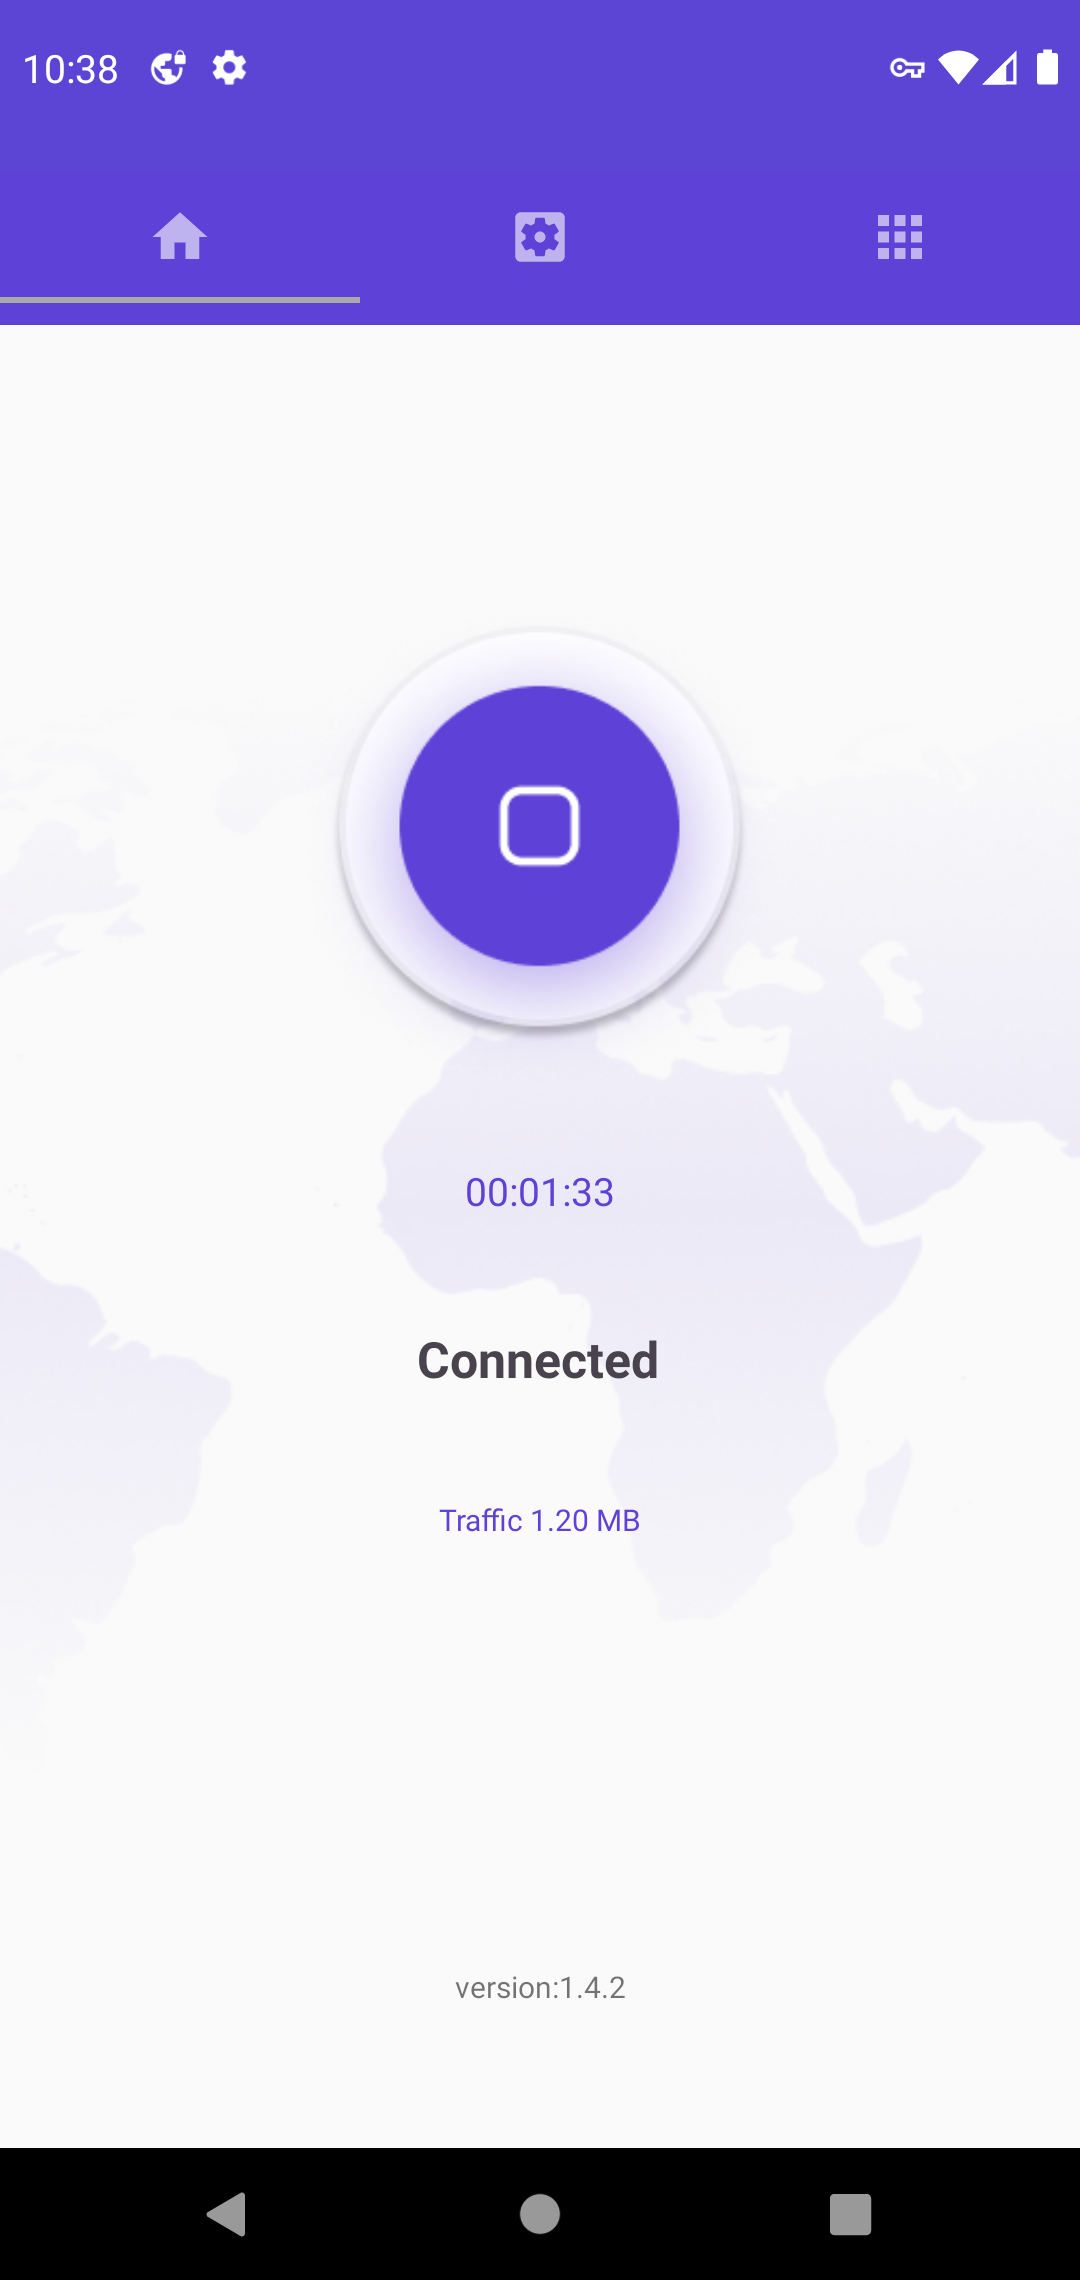
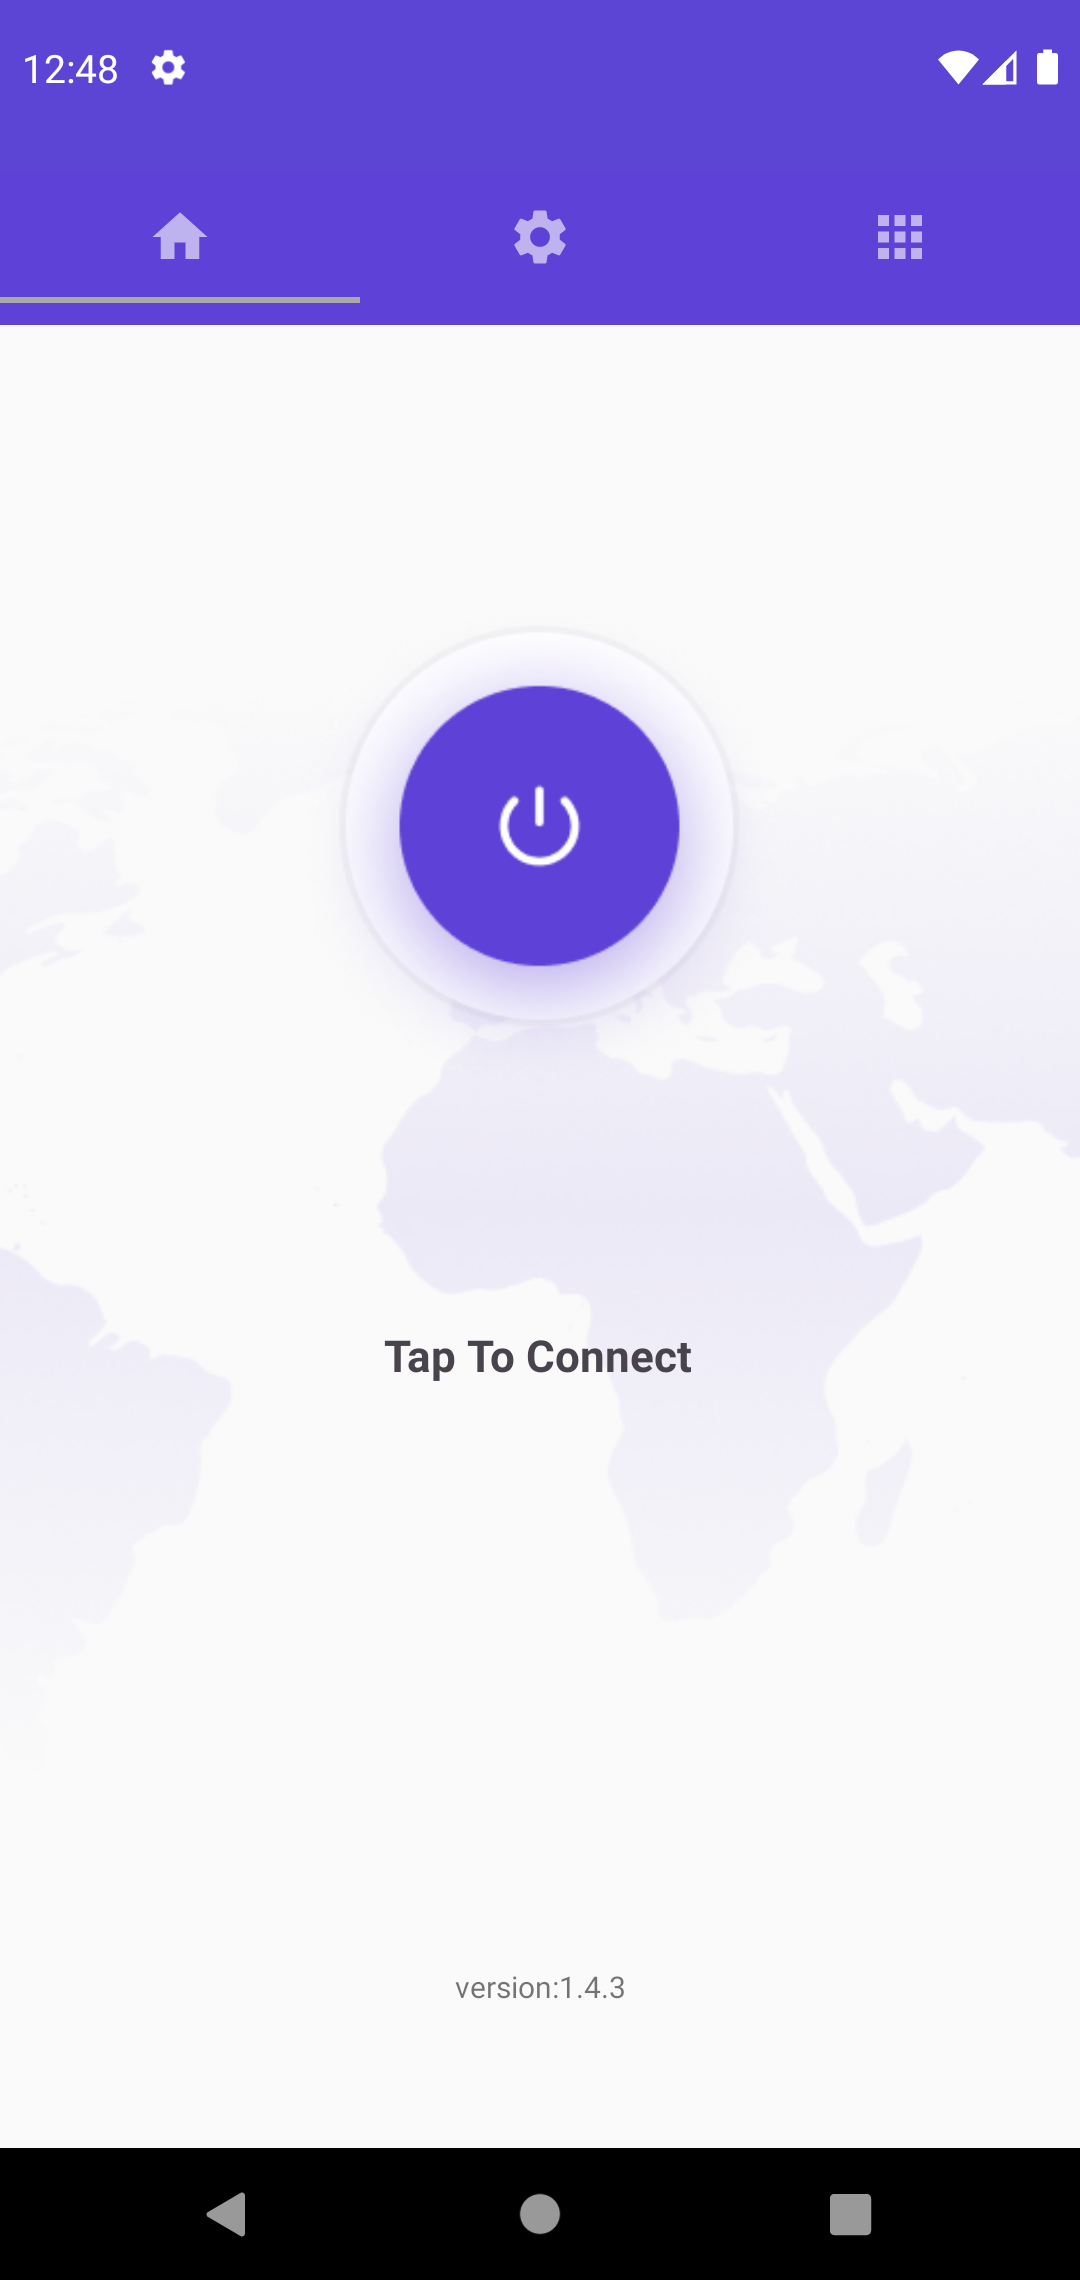
bug fixed

diff --git a/app/src/main/java/com/netbyte/vtunnel/activity/HomeTab.java b/app/src/main/java/com/netbyte/vtunnel/activity/HomeTab.java
@@ -14,6 +14,7 @@ import android.os.Handler;
 import android.os.Looper;
 import android.os.Message;
 import android.text.TextUtils;
+import android.util.Log;
 import android.view.LayoutInflater;
 import android.view.View;
 import android.view.ViewGroup;
@@ -28,12 +29,12 @@ import androidx.fragment.app.FragmentActivity;
 
 import com.netbyte.vtunnel.R;
 import com.netbyte.vtunnel.model.AppConst;
+import com.netbyte.vtunnel.model.Global;
 import com.netbyte.vtunnel.model.Stat;
 import com.netbyte.vtunnel.service.MyVPNService;
 import com.netbyte.vtunnel.utils.FormatUtil;
 
 public class HomeTab extends Fragment {
-    private static volatile boolean isConnected;
     OnFragmentInteractionListener mListener;
     ImageButton imageButton;
     TextView statusTextView;
@@ -43,8 +44,8 @@ public class HomeTab extends Fragment {
     Handler handler = new Handler(Looper.myLooper()) {
         @Override
         public void handleMessage(Message msg) {
-            if (msg.what == 1) {
-                runningTimeTextView.setText(FormatUtil.formatTime(Stat.TOTAL_RUNNING_TIME.get()));
+            if (msg.what == 1 && Global.START_TIME > 0) {
+                runningTimeTextView.setText(FormatUtil.formatTime((System.currentTimeMillis() - Global.START_TIME) / 1000));
                 statTextView.setText(String.format("Traffic %s", FormatUtil.formatByte(Stat.TOTAL_BYTES.get())));
             }
         }
@@ -59,15 +60,15 @@ public class HomeTab extends Fragment {
         super.onCreate(savedInstanceState);
         runningTimeThread = new Thread(() -> {
             while (true) {
-                if (isConnected) {
-                    Message msg = new Message();
-                    msg.what = 1;
-                    handler.sendMessage(msg);
-                }
                 try {
                     Thread.sleep(1000);
                 } catch (InterruptedException e) {
                     break;
+                }
+                if (Global.IS_CONNECTED) {
+                    Message msg = new Message();
+                    msg.what = 1;
+                    handler.sendMessage(msg);
                 }
             }
         });
@@ -82,24 +83,34 @@ public class HomeTab extends Fragment {
     @Override
     public void onViewCreated(@NonNull View view, @Nullable Bundle savedInstanceState) {
         super.onViewCreated(view, savedInstanceState);
+        this.showView();
+    }
+
+    @Override
+    public void onResume() {
+        super.onResume();
+        this.showView();
+    }
+
+    private void showView() {
         FragmentActivity activity = this.getActivity();
         assert activity != null;
         statusTextView = getView().findViewById(R.id.textStatus);
-        statusTextView.setText(isConnected ? "Connected" : "Not Connected");
+        statusTextView.setText(Global.IS_CONNECTED ? "Connected" : "Tap To Connect");
         runningTimeTextView = getView().findViewById(R.id.textRunningTime);
-        runningTimeTextView.setVisibility(isConnected ? View.VISIBLE : View.GONE);
+        runningTimeTextView.setVisibility(Global.IS_CONNECTED ? View.VISIBLE : View.GONE);
         statTextView = getView().findViewById(R.id.textStat);
-        statTextView.setVisibility(isConnected ? View.VISIBLE : View.GONE);
+        statTextView.setVisibility(Global.IS_CONNECTED ? View.VISIBLE : View.GONE);
         imageButton = getView().findViewById(R.id.connectBtn);
-        imageButton.setImageResource(isConnected ? R.drawable.power_stop : R.drawable.power_off);
+        imageButton.setImageResource(Global.IS_CONNECTED ? R.drawable.power_stop : R.drawable.power_off);
         imageButton.setOnClickListener(v -> clickHandler());
     }
 
     private void clickHandler() {
-        if (isConnected) {
-            isConnected = false;
+        if (Global.IS_CONNECTED) {
+            Global.IS_CONNECTED = false;
         } else {
-            isConnected = true;
+            Global.IS_CONNECTED = true;
         }
         Activity activity = this.getActivity();
         SharedPreferences preferences = activity.getSharedPreferences(AppConst.APP_NAME, Activity.MODE_PRIVATE);
@@ -113,16 +124,16 @@ public class HomeTab extends Fragment {
             startActivityForResult(intent, 0);
         } else {
             Intent data = new Intent();
-            data.putExtra("isConnected", isConnected);
+            data.putExtra("isConnected", Global.IS_CONNECTED);
             onActivityResult(0, RESULT_OK, data);
         }
-        imageButton.setImageResource(isConnected ? R.drawable.power_stop : R.drawable.power_off);
-        statusTextView.setText(isConnected ? "Connected" : "Not Connected");
-        runningTimeTextView.setText(isConnected ? FormatUtil.formatTime(Stat.TOTAL_RUNNING_TIME.get()) : "00:00:00");
-        runningTimeTextView.setVisibility(isConnected ? View.VISIBLE : View.GONE);
-        statTextView.setText(isConnected ? String.format("Traffic %s", FormatUtil.formatByte(Stat.TOTAL_BYTES.get())) : "");
-        statTextView.setVisibility(isConnected ? View.VISIBLE : View.GONE);
-        Toast.makeText(activity, isConnected ? "Started ！" : "Stopped !", Toast.LENGTH_LONG).show();
+        imageButton.setImageResource(Global.IS_CONNECTED ? R.drawable.power_stop : R.drawable.power_off);
+        statusTextView.setText(Global.IS_CONNECTED ? "Connected" : "Tap To Connect");
+        runningTimeTextView.setText((Global.IS_CONNECTED && Global.START_TIME > 0) ? FormatUtil.formatTime((System.currentTimeMillis() - Global.START_TIME) / 1000) : "00:00:00");
+        runningTimeTextView.setVisibility(Global.IS_CONNECTED ? View.VISIBLE : View.GONE);
+        statTextView.setText(Global.IS_CONNECTED ? String.format("Traffic %s", FormatUtil.formatByte(Stat.TOTAL_BYTES.get())) : "");
+        statTextView.setVisibility(Global.IS_CONNECTED ? View.VISIBLE : View.GONE);
+        Toast.makeText(activity, Global.IS_CONNECTED ? "Started ！" : "Stopped !", Toast.LENGTH_LONG).show();
     }
 
     @Override

diff --git a/app/src/main/java/com/netbyte/vtunnel/service/MyVPNService.java b/app/src/main/java/com/netbyte/vtunnel/service/MyVPNService.java
@@ -16,6 +16,8 @@ import androidx.core.app.NotificationCompat;
 import com.netbyte.vtunnel.activity.MainActivity;
 import com.netbyte.vtunnel.R;
 import com.netbyte.vtunnel.model.Config;
+import com.netbyte.vtunnel.model.Global;
+import com.netbyte.vtunnel.thread.BaseThread;
 import com.netbyte.vtunnel.thread.MonitorThread;
 import com.netbyte.vtunnel.thread.NotifyThread;
 import com.netbyte.vtunnel.thread.WsThread;
@@ -23,9 +25,6 @@ import com.netbyte.vtunnel.model.AppConst;
 
 public class MyVPNService extends VpnService {
     private Config config;
-    private WsThread wsThread;
-    private NotifyThread notifyThread;
-    private MonitorThread monitorThread;
     private PendingIntent pendingIntent;
     private NotificationManager notificationManager;
     private NotificationCompat.Builder notificationBuilder;
@@ -114,15 +113,17 @@ public class MyVPNService extends VpnService {
 
     public void startVPN() {
         try {
-            // stop threads
-            this.stopThreads();
-            wsThread = new WsThread(config, this, ipService);
+            if (Global.RUNNING) {
+                Global.RUNNING = false;
+            }
+            Global.START_TIME = System.currentTimeMillis();
+            BaseThread wsThread = new WsThread(config, this, ipService);
             wsThread.startRunning();
             wsThread.start();
-            monitorThread = new MonitorThread(this, ipService);
+            BaseThread monitorThread = new MonitorThread(this, ipService);
             monitorThread.startRunning();
             monitorThread.start();
-            notifyThread = new NotifyThread(notificationManager, notificationBuilder, this);
+            BaseThread notifyThread = new NotifyThread(notificationManager, notificationBuilder, this);
             notifyThread.startRunning();
             notifyThread.start();
             Log.i(AppConst.DEFAULT_TAG, "VPN started");
@@ -133,26 +134,15 @@ public class MyVPNService extends VpnService {
     }
 
     public void stopVPN() {
-        // stop threads
-        this.stopThreads();
-        // stop vpn service
+        this.resetGlobalVar();
         this.stopSelf();
         Log.i(AppConst.DEFAULT_TAG, "VPN stopped");
     }
 
-    private void stopThreads() {
-        if (wsThread != null && wsThread.isRunning()) {
-            wsThread.stopRunning();
-            wsThread = null;
-        }
-        if (monitorThread != null && monitorThread.isRunning()) {
-            monitorThread.stopRunning();
-            monitorThread = null;
-        }
-        if (notifyThread != null && notifyThread.isRunning()) {
-            notifyThread.stopRunning();
-            notifyThread = null;
-        }
+    public void resetGlobalVar() {
+        Global.IS_CONNECTED = false;
+        Global.RUNNING = false;
+        Global.START_TIME = 0;
     }
 
 }

diff --git a/app/src/main/java/com/netbyte/vtunnel/thread/NotifyThread.java b/app/src/main/java/com/netbyte/vtunnel/thread/NotifyThread.java
@@ -7,6 +7,7 @@ import android.util.Log;
 import androidx.core.app.NotificationCompat;
 
 import com.netbyte.vtunnel.model.AppConst;
+import com.netbyte.vtunnel.model.Global;
 import com.netbyte.vtunnel.model.Stat;
 import com.netbyte.vtunnel.service.MyVPNService;
 import com.netbyte.vtunnel.utils.FormatUtil;
@@ -29,19 +30,17 @@ public class NotifyThread extends BaseThread {
     public void run() {
         Log.i(TAG, "start");
         vpnService.startForeground(AppConst.NOTIFICATION_ID, builder.build());
-        long time = 0;
-        while (RUNNING) {
+        while (Global.RUNNING) {
             try {
                 TimeUnit.SECONDS.sleep(1);
-                Stat.TOTAL_RUNNING_TIME.set(++time);
-                if (TextUtils.isEmpty(AppConst.LOCAL_IP)) {
+                if (TextUtils.isEmpty(Global.LOCAL_IP)) {
                     String title = "VPN failed!!!";
                     builder.setStyle(new NotificationCompat.BigTextStyle().setBigContentTitle("").bigText(title));
                     break;
                 }
                 Stat.TOTAL_BYTES.addAndGet(Stat.DOWNLOAD_BYTES.get() + Stat.UPLOAD_BYTES.get());
                 String text = String.format("Network: ↓ %s ↑ %s", FormatUtil.formatByte(Stat.DOWNLOAD_BYTES.get()), FormatUtil.formatByte(Stat.UPLOAD_BYTES.get()));
-                String summary = String.format("IP: %s Total: %s", AppConst.LOCAL_IP, FormatUtil.formatByte(Stat.TOTAL_BYTES.get()));
+                String summary = String.format("IP: %s Total: %s", Global.LOCAL_IP, FormatUtil.formatByte(Stat.TOTAL_BYTES.get()));
                 builder.setStyle(new NotificationCompat.BigTextStyle().setSummaryText(summary).setBigContentTitle("").bigText(text));
                 notificationManager.notify(AppConst.NOTIFICATION_ID, builder.build());
                 Stat.UPLOAD_BYTES.set(0);
@@ -61,7 +60,6 @@ public class NotifyThread extends BaseThread {
         Stat.UPLOAD_BYTES.set(0);
         Stat.DOWNLOAD_BYTES.set(0);
         Stat.TOTAL_BYTES.set(0);
-        Stat.TOTAL_RUNNING_TIME.set(0);
-        Log.i(AppConst.DEFAULT_TAG, "data reset");
+        Log.i(AppConst.DEFAULT_TAG, "reset data");
     }
 }

diff --git a/app/src/main/java/com/netbyte/vtunnel/thread/MonitorThread.java b/app/src/main/java/com/netbyte/vtunnel/thread/MonitorThread.java
@@ -4,7 +4,7 @@ import android.content.Context;
 import android.provider.Settings;
 import android.util.Log;
 
-import com.netbyte.vtunnel.model.AppConst;
+import com.netbyte.vtunnel.model.Global;
 import com.netbyte.vtunnel.service.IPService;
 import com.netbyte.vtunnel.service.MyVPNService;
 
@@ -22,7 +22,7 @@ public class MonitorThread extends BaseThread {
     public void run() {
         Log.i(TAG, "start");
         int checkCount = 0;
-        while (RUNNING) {
+        while (Global.RUNNING) {
             try {
                 TimeUnit.SECONDS.sleep(3);
                 if (isAirplaneModeOn(vpnService.getApplicationContext())) {
@@ -32,7 +32,7 @@ public class MonitorThread extends BaseThread {
                 }
                 checkCount++;
                 if (checkCount % 100 == 0) {
-                    ipService.keepAliveIp(AppConst.LOCAL_IP);
+                    ipService.keepAliveIp(Global.LOCAL_IP);
                 }
             } catch (InterruptedException e) {
                 Log.i(TAG, "error:" + e.getMessage());
@@ -40,7 +40,7 @@ public class MonitorThread extends BaseThread {
         }
         if (!isAirplaneModeOn(vpnService.getApplicationContext())) {
             // delete local ip
-            ipService.deleteIp(AppConst.LOCAL_IP);
+            ipService.deleteIp(Global.LOCAL_IP);
         }
         Log.i(TAG, "stop");
     }

diff --git a/app/src/main/java/com/netbyte/vtunnel/thread/WsThread.java b/app/src/main/java/com/netbyte/vtunnel/thread/WsThread.java
@@ -10,6 +10,7 @@ import android.util.Log;
 
 import com.netbyte.vtunnel.model.AppConst;
 import com.netbyte.vtunnel.model.Config;
+import com.netbyte.vtunnel.model.Global;
 import com.netbyte.vtunnel.model.LocalIP;
 import com.netbyte.vtunnel.model.Stat;
 import com.netbyte.vtunnel.service.IPService;
@@ -55,7 +56,7 @@ public class WsThread extends BaseThread {
                 vpnService.stopVPN();
                 return;
             }
-            AppConst.LOCAL_IP = localIP.getLocalIP();
+            Global.LOCAL_IP = localIP.getLocalIP();
             in = new FileInputStream(tun.getFileDescriptor());
             out = new FileOutputStream(tun.getFileDescriptor());
             @SuppressLint("DefaultLocale") String uri = String.format("wss://%s:%d/way-to-freedom", config.getServerAddress(), config.getServerPort());
@@ -64,7 +65,7 @@ public class WsThread extends BaseThread {
             wsClient.addHeader("key",config.getKey());
             wsClient.connectBlocking();
             wsClient.setOutStream(out);
-            while (RUNNING) {
+            while (Global.RUNNING) {
                 try {
                     byte[] buf = new byte[AppConst.BUFFER_SIZE];
                     int ln = in.read(buf);

diff --git a/app/src/main/java/com/netbyte/vtunnel/model/AppConst.java b/app/src/main/java/com/netbyte/vtunnel/model/AppConst.java
@@ -3,10 +3,10 @@ package com.netbyte.vtunnel.model;
 public class AppConst {
     public static final String APP_NAME = "vTunnel";
     public static final String APP_PACKAGE_NAME = "com.netbyte.vtunnel";
-    public static final String NOTIFICATION_CHANNEL_ID = "vTunnel";
-    public static final String NOTIFICATION_CHANNEL_NAME = "vTunnel";
+    public static final String NOTIFICATION_CHANNEL_ID = APP_NAME;
+    public static final String NOTIFICATION_CHANNEL_NAME = APP_NAME;
     public static final int NOTIFICATION_ID = 911;
-    public static final String DEFAULT_TAG = "vTunnel";
+    public static final String DEFAULT_TAG = APP_NAME;
     public static final int BUFFER_SIZE = 1500;
     public static final int MTU = 1500;
     public static final String DEFAULT_SERVER_ADDRESS = "";
@@ -18,5 +18,4 @@ public class AppConst {
     public static final String DEFAULT_ROUTE = "0.0.0.0";
     public static final String BTN_ACTION_CONNECT = "connect";
     public static final String BTN_ACTION_DISCONNECT = "disconnect";
-    public static String LOCAL_IP = "";
 }

diff --git a/app/src/main/java/com/netbyte/vtunnel/thread/BaseThread.java b/app/src/main/java/com/netbyte/vtunnel/thread/BaseThread.java
@@ -1,22 +1,15 @@
 package com.netbyte.vtunnel.thread;
 
+import com.netbyte.vtunnel.model.Global;
 import com.netbyte.vtunnel.service.IPService;
 import com.netbyte.vtunnel.service.MyVPNService;
 
 public class BaseThread extends Thread {
-    public static volatile boolean RUNNING;
     protected MyVPNService vpnService;
     protected IPService ipService;
 
     public void startRunning() {
-        RUNNING = true;
+        Global.RUNNING = true;
     }
 
-    public void stopRunning() {
-        RUNNING = false;
-    }
-
-    public boolean isRunning() {
-        return RUNNING;
-    }
 }

diff --git a/app/src/main/java/com/netbyte/vtunnel/model/Stat.java b/app/src/main/java/com/netbyte/vtunnel/model/Stat.java
@@ -6,5 +6,4 @@ public class Stat {
     public static volatile AtomicLong DOWNLOAD_BYTES = new AtomicLong(0);
     public static volatile AtomicLong UPLOAD_BYTES = new AtomicLong(0);
     public static volatile AtomicLong TOTAL_BYTES = new AtomicLong(0);
-    public static volatile AtomicLong TOTAL_RUNNING_TIME = new AtomicLong(0);
 }

diff --git a/app/src/main/java/com/netbyte/vtunnel/utils/FormatUtil.java b/app/src/main/java/com/netbyte/vtunnel/utils/FormatUtil.java
@@ -32,6 +32,9 @@ public class FormatUtil {
     }
 
     public static String formatTime(long second) {
+        if (second <= 0) {
+            return "00:00:00";
+        }
         long days = second / 86400;
         second = second % 86400;
         long hours = second / 3600;

diff --git a/app/src/main/java/com/netbyte/vtunnel/model/Global.java b/app/src/main/java/com/netbyte/vtunnel/model/Global.java
@@ -1,0 +1,8 @@
+package com.netbyte.vtunnel.model;
+
+public class Global {
+    public static volatile boolean IS_CONNECTED;
+    public static volatile boolean RUNNING;
+    public static volatile String LOCAL_IP;
+    public static volatile long START_TIME;
+}
